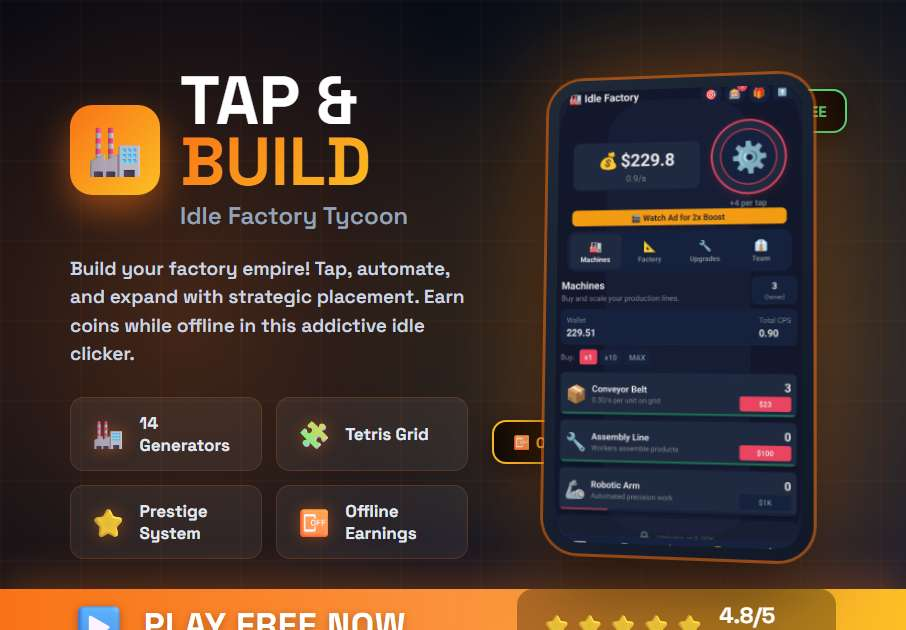
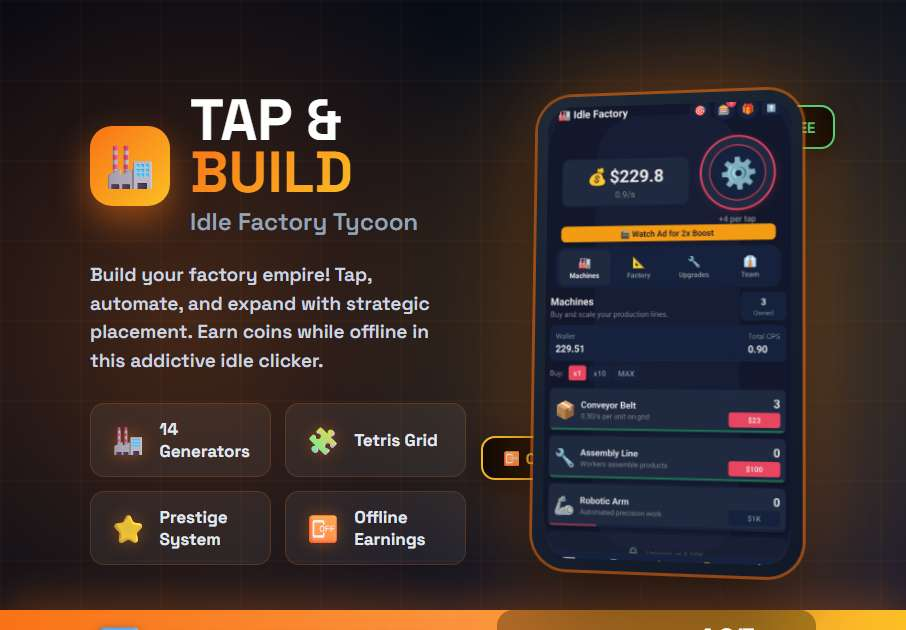
Update OG images with maximum safe zones for all platforms

Changed region(s): [[0.0, 0.0905, 1.0, 1.0], [0.0618, 0.1206, 0.5254, 0.6032], [0.0927, 0.6333, 0.4945, 0.7238]]

diff --git a/og-facebook.html b/og-facebook.html
@@ -62,7 +62,7 @@
         .top-section {
             flex: 1;
             display: flex;
-            padding: 70px 70px 30px 70px;
+            padding: 90px 90px 40px 90px;
             gap: 50px;
         }
         
@@ -82,14 +82,14 @@
         }
         
         .app-logo {
-            width: 90px;
-            height: 90px;
+            width: 80px;
+            height: 80px;
             background: linear-gradient(135deg, #f97316, #fbbf24);
             border-radius: 22px;
             display: flex;
             align-items: center;
             justify-content: center;
-            font-size: 50px;
+            font-size: 44px;
             box-shadow: 0 15px 35px rgba(249, 115, 22, 0.5);
         }
         
@@ -98,7 +98,7 @@
         }
         
         .main-title {
-            font-size: 68px;
+            font-size: 58px;
             font-weight: 900;
             line-height: 0.9;
             margin-bottom: 8px;
@@ -226,12 +226,12 @@
         
         /* Bottom CTA bar */
         .bottom-bar {
-            height: 90px;
+            height: 80px;
             background: linear-gradient(90deg, #f97316 0%, #fb923c 50%, #fbbf24 100%);
             display: flex;
             align-items: center;
             justify-content: space-between;
-            padding: 0 70px;
+            padding: 0 90px;
             box-shadow: 0 -10px 40px rgba(249, 115, 22, 0.3);
         }
         

diff --git a/og-whatsapp.html b/og-whatsapp.html
@@ -94,7 +94,7 @@
             align-items: center;
             justify-content: center;
             height: 100%;
-            padding: 140px 100px 100px 100px;
+            padding: 160px 120px 120px 120px;
             text-align: center;
         }
         
@@ -122,10 +122,10 @@
         
         /* Title */
         .title {
-            font-size: 120px;
+            font-size: 100px;
             font-weight: 800;
             line-height: 1;
-            margin-bottom: 28px;
+            margin-bottom: 24px;
             text-shadow: 0 0 60px rgba(249, 115, 22, 0.5);
         }
         
@@ -213,13 +213,13 @@
         /* Stats bar */
         .stats {
             position: absolute;
-            bottom: 100px;
-            left: 80px;
-            right: 80px;
+            bottom: 120px;
+            left: 120px;
+            right: 120px;
             display: flex;
             justify-content: space-around;
             background: rgba(0, 0, 0, 0.6);
-            padding: 28px;
+            padding: 24px;
             border-radius: 20px;
             border: 1px solid rgba(255, 255, 255, 0.1);
             backdrop-filter: blur(10px);

diff --git a/og-twitter.html b/og-twitter.html
@@ -87,8 +87,8 @@
             z-index: 10;
             display: flex;
             height: 100%;
-            padding: 80px 80px 70px 80px;
-            gap: 60px;
+            padding: 95px 90px 75px 90px;
+            gap: 50px;
         }
         
         /* Left side */
@@ -116,10 +116,10 @@
         }
         
         .main-title {
-            font-size: 86px;
+            font-size: 72px;
             font-weight: 800;
             line-height: 0.95;
-            margin-bottom: 20px;
+            margin-bottom: 16px;
         }
         
         .main-title .word-1 {
